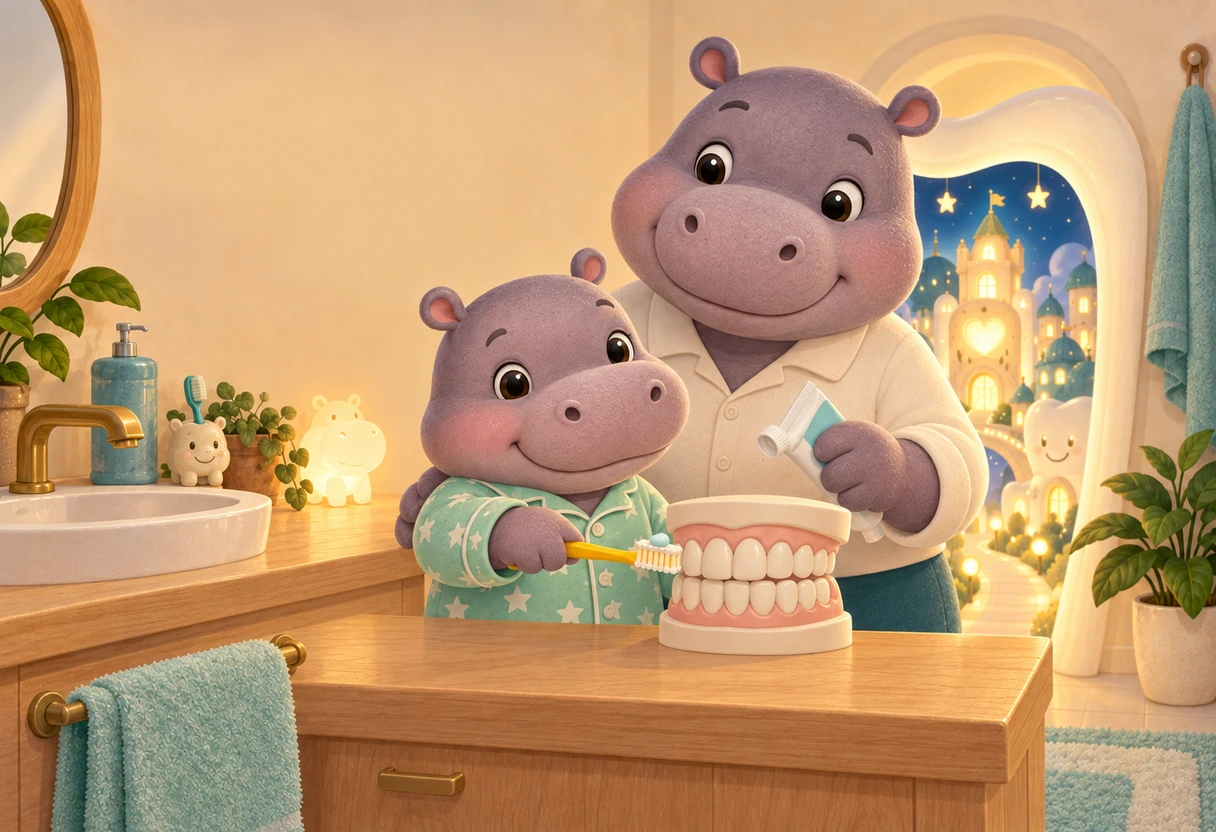
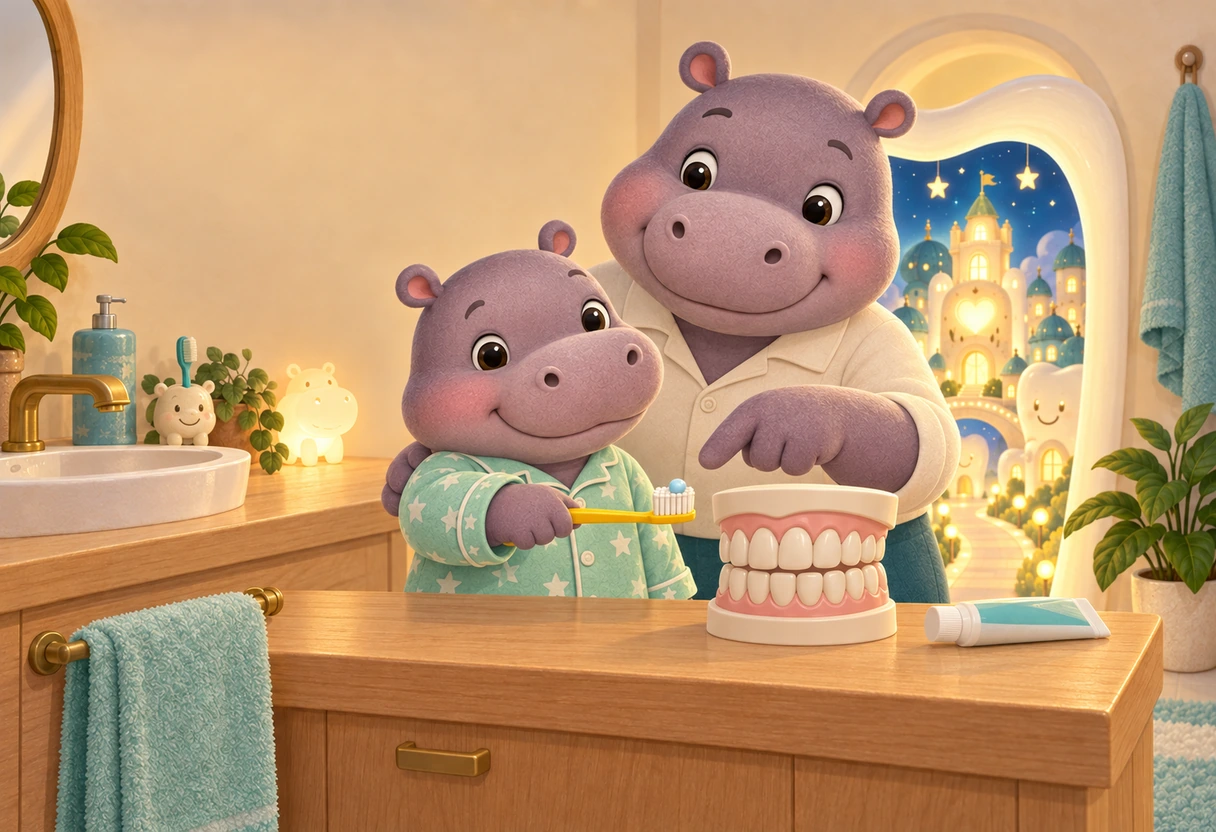
fix: refine cavities brushing art

diff --git a/books/cavities/ART-PROMPTS.md b/books/cavities/ART-PROMPTS.md
@@ -149,11 +149,11 @@
 - 验收依据：矿物小珠逐渐离开，表面只是变哑和出现浅点；没有黑洞或真实组织破坏。
 
 ### 07 · `07_saliva-fluoride_v1.webp`
-- 参考图及用途：`00_cover_v1.webp`，锁定泡泡与画风。
-- 原始生成文件：`exec-f5f6f839-8f21-4f0b-b822-9a2b353f66d5.png`
-- 最终提示词：`Enlarged conceptual cutaway: clear blue saliva flows as a gentle thin layer over very early matte enamel while pale-green fluoride shield shapes help tiny pearl-like mineral dots return to the intact surface; same miniature Paopao smiles nearby; warm ivory, clear blue and pale green palette; no cavity or hole, no magical filling, flood, slime, syringe, brand, monster, worm, black decay, pain, text, or watermark.`
-- 验收决定：接受。
-- 验收依据：只表现早期完整牙面的矿物回归；画面没有把氟化物画成填补永久性洞。
+- 参考图及用途：`00_cover_v1.webp` 锁定泡泡与画风；第一版 `07_saliva-fluoride_v1.webp` 作为需要纠正“顶部水浪”构图的对照。
+- 原始生成文件：`exec-0eb9f1d2-4981-4642-96d0-9408d824a2b2.png`
+- 最终提示词：`Correct the prior enlarged conceptual cutaway while preserving warm-ivory enamel, early pale speckles, palette and miniature Paopao: show a thin translucent surface-hugging blue saliva film only a few millimeters thick following the tooth contour, with a few small flat faceless pale-green shield motifs inside it and pearl-like mineral dots settling gently onto intact enamel; low close side view makes the film thickness unmistakable; never an overhead stream, crest, wave, waterfall, flood or large bubbles; no arrows, text, labels, logos, cavity, magic cure, syringe, monsters, worms, black decay, pain, or watermark.`
+- 验收决定：初版在独立视觉复核中因保护层像从上方涌来的水浪而拒绝；重生后接受。
+- 验收依据：最终图蓝色层沿牙面轮廓贴合、厚度薄且连续；绿色盾形无表情，牙面完整，没有水浪、洪水或补洞暗示。
 
 ### 08 · `08_cavity-forms_v1.webp`
 - 参考图及用途：`00_cover_v1.webp` 锁定泡泡、浴室和画风；`10_outer-surfaces_v1.webp` 锁定照护者奶油白上衣、深青裤与体态。
@@ -170,11 +170,11 @@
 - 验收依据：牙医只使用小圆镜，泡泡坐姿放松、照护者陪伴；无针、钻、血或疼痛特写。
 
 ### 10 · `10_outer-surfaces_v1.webp`
-- 参考图及用途：`00_cover_v1.webp`，锁定泡泡、睡衣、黄牙刷、浴室和画风；本图同时成为第 11–12 页牙列模型和照护者锚点。
-- 原始生成文件：`exec-d67b3ae9-d4a1-4681-95a2-9faca53bdc7d.png`
-- 最终提示词：`Same bathroom and Paopao with adult caregiver in cream shirt and deep-teal trousers; caregiver helps place a visibly pea-sized toothpaste dot on the yellow child toothbrush while Paopao positions it gently at the outer surfaces of one simplified ivory upper-and-lower tooth-row model; front three-quarter model orientation, matching brush scale, broad copy space; no swallowing, excess foam, hard scrubbing, blood, cavity repair, shame, text, labels, logos, or watermark.`
-- 验收决定：接受。
-- 验收依据：牙列排列、观看方向、牙刷比例与照护者服装清楚；牙膏量小，动作温和。
+- 参考图及用途：`00_cover_v1.webp` 锁定泡泡、睡衣、黄牙刷、浴室和画风；第一版 `10_outer-surfaces_v1.webp` 锁定照护者、牙列方向和版式，并作为牙膏形状纠正对照；修正版继续作为第 12 页牙刷锚点。
+- 原始生成文件：`exec-baa31205-2c5c-43b5-854a-f465cd2724eb.png`
+- 最终提示词：`Correct the prior page while preserving caregiver, central ivory upper-and-lower tooth-row model, front three-quarter orientation and yellow brush scale: show exactly one separate round hemispherical toothpaste dot about 5 mm across on the center of the white bristle tips, visibly isolated with clean bristles around it; capped tube rests on the counter and is not dispensing; exactly one pea-sized bead only, not a stripe, ribbon, smear, mound spanning the head, multiple dots, excess paste or foam; preserve Paopao, cream-shirt/deep-teal caregiver, bathroom and copy space; no swallowing, hard scrubbing, blood, cavity repair, text, logos, or watermark.`
+- 验收决定：初版在独立视觉复核中因牙膏呈跨刷头条状而拒绝；重生后接受。
+- 验收依据：最终原图刷毛中央只有一个小而独立的圆形牙膏点，四周白刷毛清楚；牙膏管已盖好放在台面，没有挤出动作或多余泡沫。
 
 ### 11 · `11_all-surfaces_v1.webp`
 - 参考图及用途：`00_cover_v1.webp` 锁定角色、浴室和画风；`10_outer-surfaces_v1.webp` 锁定同一牙列模型、观看方向、牙刷比例和照护者。
@@ -184,11 +184,11 @@
 - 验收依据：中央牙列的齿数布局、方向和黄牙刷比例与第 10 页一致；三个圆形局部放大只是无文字表面示意，完成状态仍由 HTML 控件承担。
 
 ### 12 · `12_two-minute-routine_v1.webp`
-- 参考图及用途：`00_cover_v1.webp` 锁定角色、浴室和画风；`10_outer-surfaces_v1.webp` 锁定牙列、照护者和牙刷。
-- 原始生成文件：`exec-13e290e6-62fb-4c35-bb4d-3f971c12ff4e.png`
-- 最终提示词：`Same bathroom: Paopao calmly brushes with the same yellow toothbrush while the same caregiver stays nearby; the same ivory tooth-row model remains on the counter in the same front three-quarter orientation; two soft nonverbal window-light vignettes suggest moonlight and sunrise; leave a broad empty area for the optional HTML timer and device-down guidance; no clock digits, text, awards, streak, staring at a device, swallowing, giant foam, hard scrubbing, pain, cavity repair, shame, logos, or watermark.`
-- 验收决定：接受。
-- 验收依据：夜晚和早晨只用月亮、太阳与光线表达，无数字；主牙列方向连续，右侧留有计时器空间。
+- 参考图及用途：`00_cover_v1.webp` 锁定角色、浴室和画风；修正版 `10_outer-surfaces_v1.webp` 锁定黄牙刷、白刷毛、照护者和牙列；第一版 `12_two-minute-routine_v1.webp` 作为早晚版式与刷毛接触纠正对照。
+- 原始生成文件：`exec-1ae1d066-96a9-460d-9265-734cda0042e9.png`
+- 最终提示词：`Correct the prior morning/evening composition while preserving two nonverbal moonlit and sunlit routine vignettes and open timer space: in each vignette the same Paopao has a gently open relaxed mouth with visible ivory front teeth and holds the same yellow toothbrush so the white bristle tips visibly touch the outer tooth surface at the gumline with only slight gentle bend; caregiver calmly nearby in both; central tooth-row model may remain; make both contact points unmistakable; no clocks, numbers, toothpaste during brushing, foam, swallowing, closed-mouth brushing, hovering brush, brushing lips or cheeks, hard scrubbing, bleeding, pain, text, awards, logos, or watermark.`
+- 验收决定：初版在独立视觉复核中因早晚小场景闭口且刷毛接触不明确而拒绝；重生后接受。
+- 验收依据：最终图的月夜与晨光两个小场景均为平静张口、牙齿可见、白刷毛贴住外侧牙面；没有牙膏泡沫、吞咽姿势或悬空牙刷。
 
 ### 13 · `13_glossary_v1.webp`
 - 参考图及用途：`00_cover_v1.webp`，回应封面的角色、牙刷、浴室和牙齿城。
@@ -200,7 +200,7 @@
 ## 整套视觉验收结论
 
 - **角色连续性：** 泡泡保持薰衣草灰皮肤、小圆耳、宽鼻口和薄荷星点睡衣；机制页使用同一角色的缩小观察者版本。照护者最终均为奶油白上衣与深青裤。
-- **牙刷与牙列：** 黄柄白刷毛贯穿封面、跳过刷牙与第 10–13 页。第 10–12 页中央牙列模型保持相同前方三分之四视角和相近齿数布局；第 11 页的圆形局部放大只用于提示表面，不承担按钮状态。
-- **机制连续性：** 第 3–7 页依次表现多样微生物、食物残屑与牙菌斑、部分细菌产酸、渐进矿物流失、唾液与氟支持早期矿物回归；第 8 页的永久小凹陷仍保留并转向求助，第 9 页只做平静检查。
+- **牙刷与牙列：** 黄柄白刷毛贯穿封面、跳过刷牙与第 10–13 页。第 10 页刷毛中央是单个豌豆大小圆点；第 12 页早晚两个小场景均能看见张口、牙齿和刷毛接触点。第 10–12 页中央牙列模型保持相同前方三分之四视角和相近齿数布局；第 11 页的圆形局部放大只用于提示表面，不承担按钮状态。
+- **机制连续性：** 第 3–7 页依次表现多样微生物、食物残屑与牙菌斑、部分细菌产酸、渐进矿物流失、贴着牙面的薄层唾液与氟支持早期矿物回归；第 8 页的永久小凹陷仍保留并转向求助，第 9 页只做平静检查。
 - **禁止元素：** 14 张最终图均未发现文字、水印、虫、怪兽、黑色蛀洞、针、钻、血、逼真牙髓、剧痛、羞耻或“刷牙/氟瞬间补洞”。
 - **联系表：** `.superpowers/sdd/2026-09-16-cavities-picture-book/cavities-contact-sheet.jpg`（本地审阅证据，不发布）。
